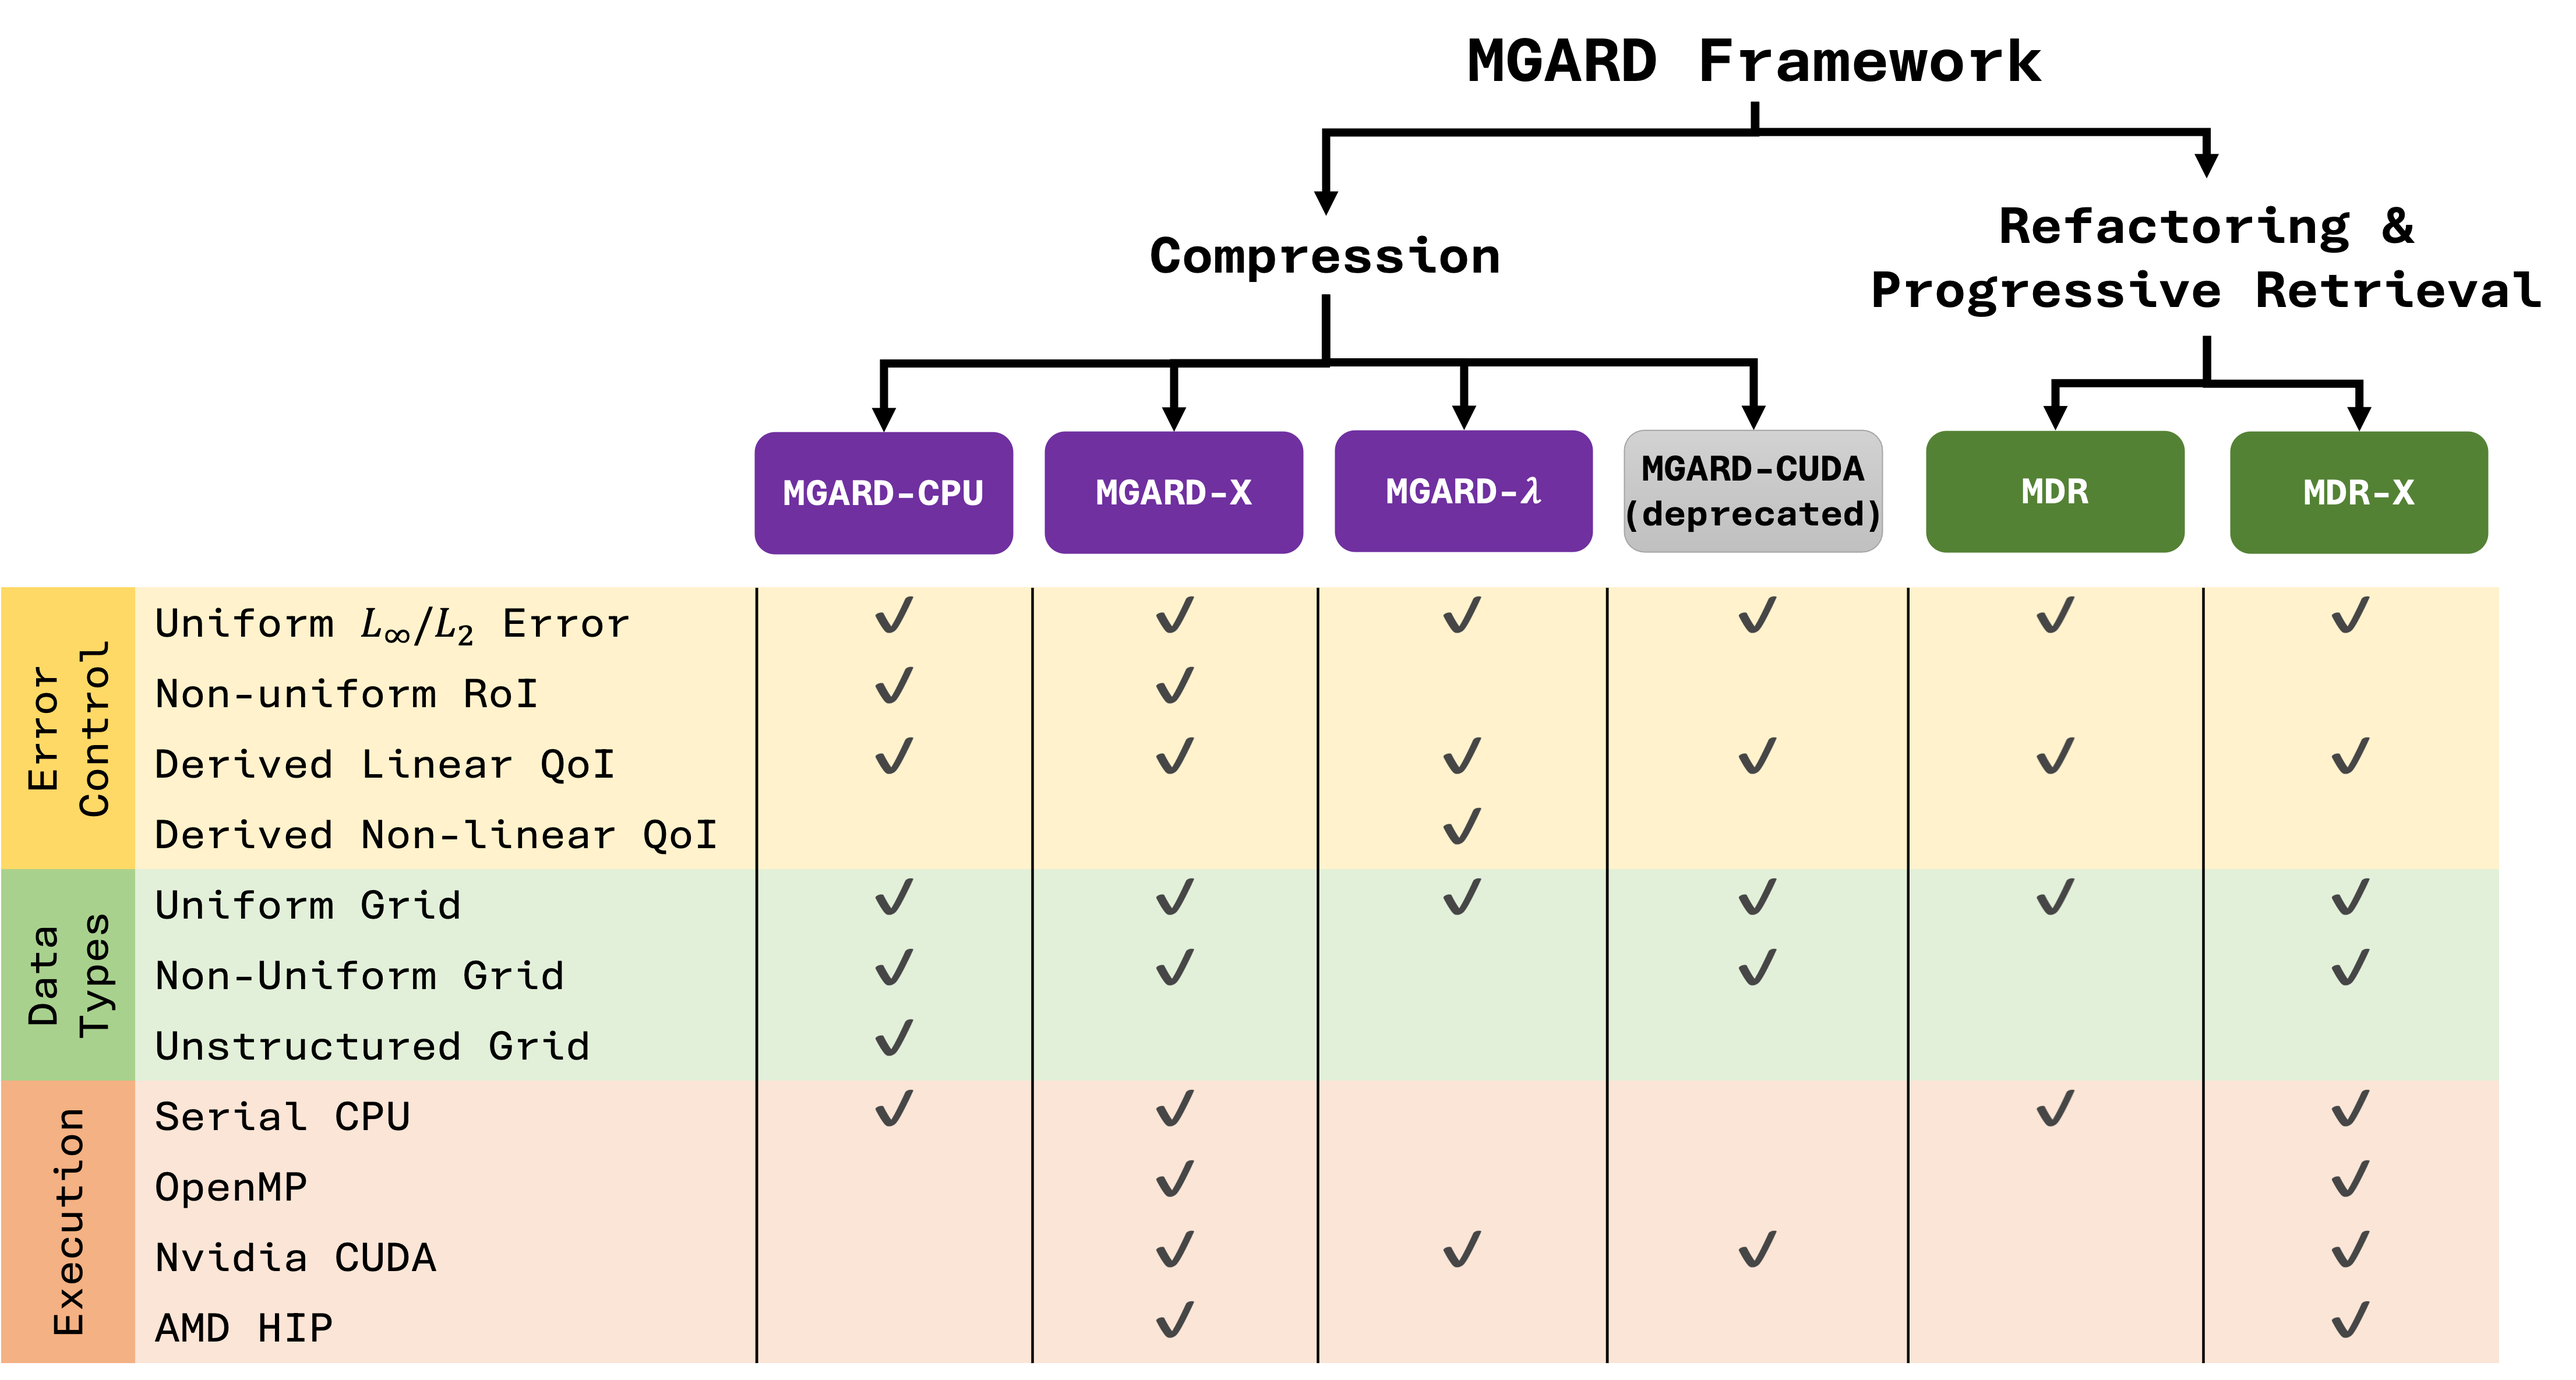
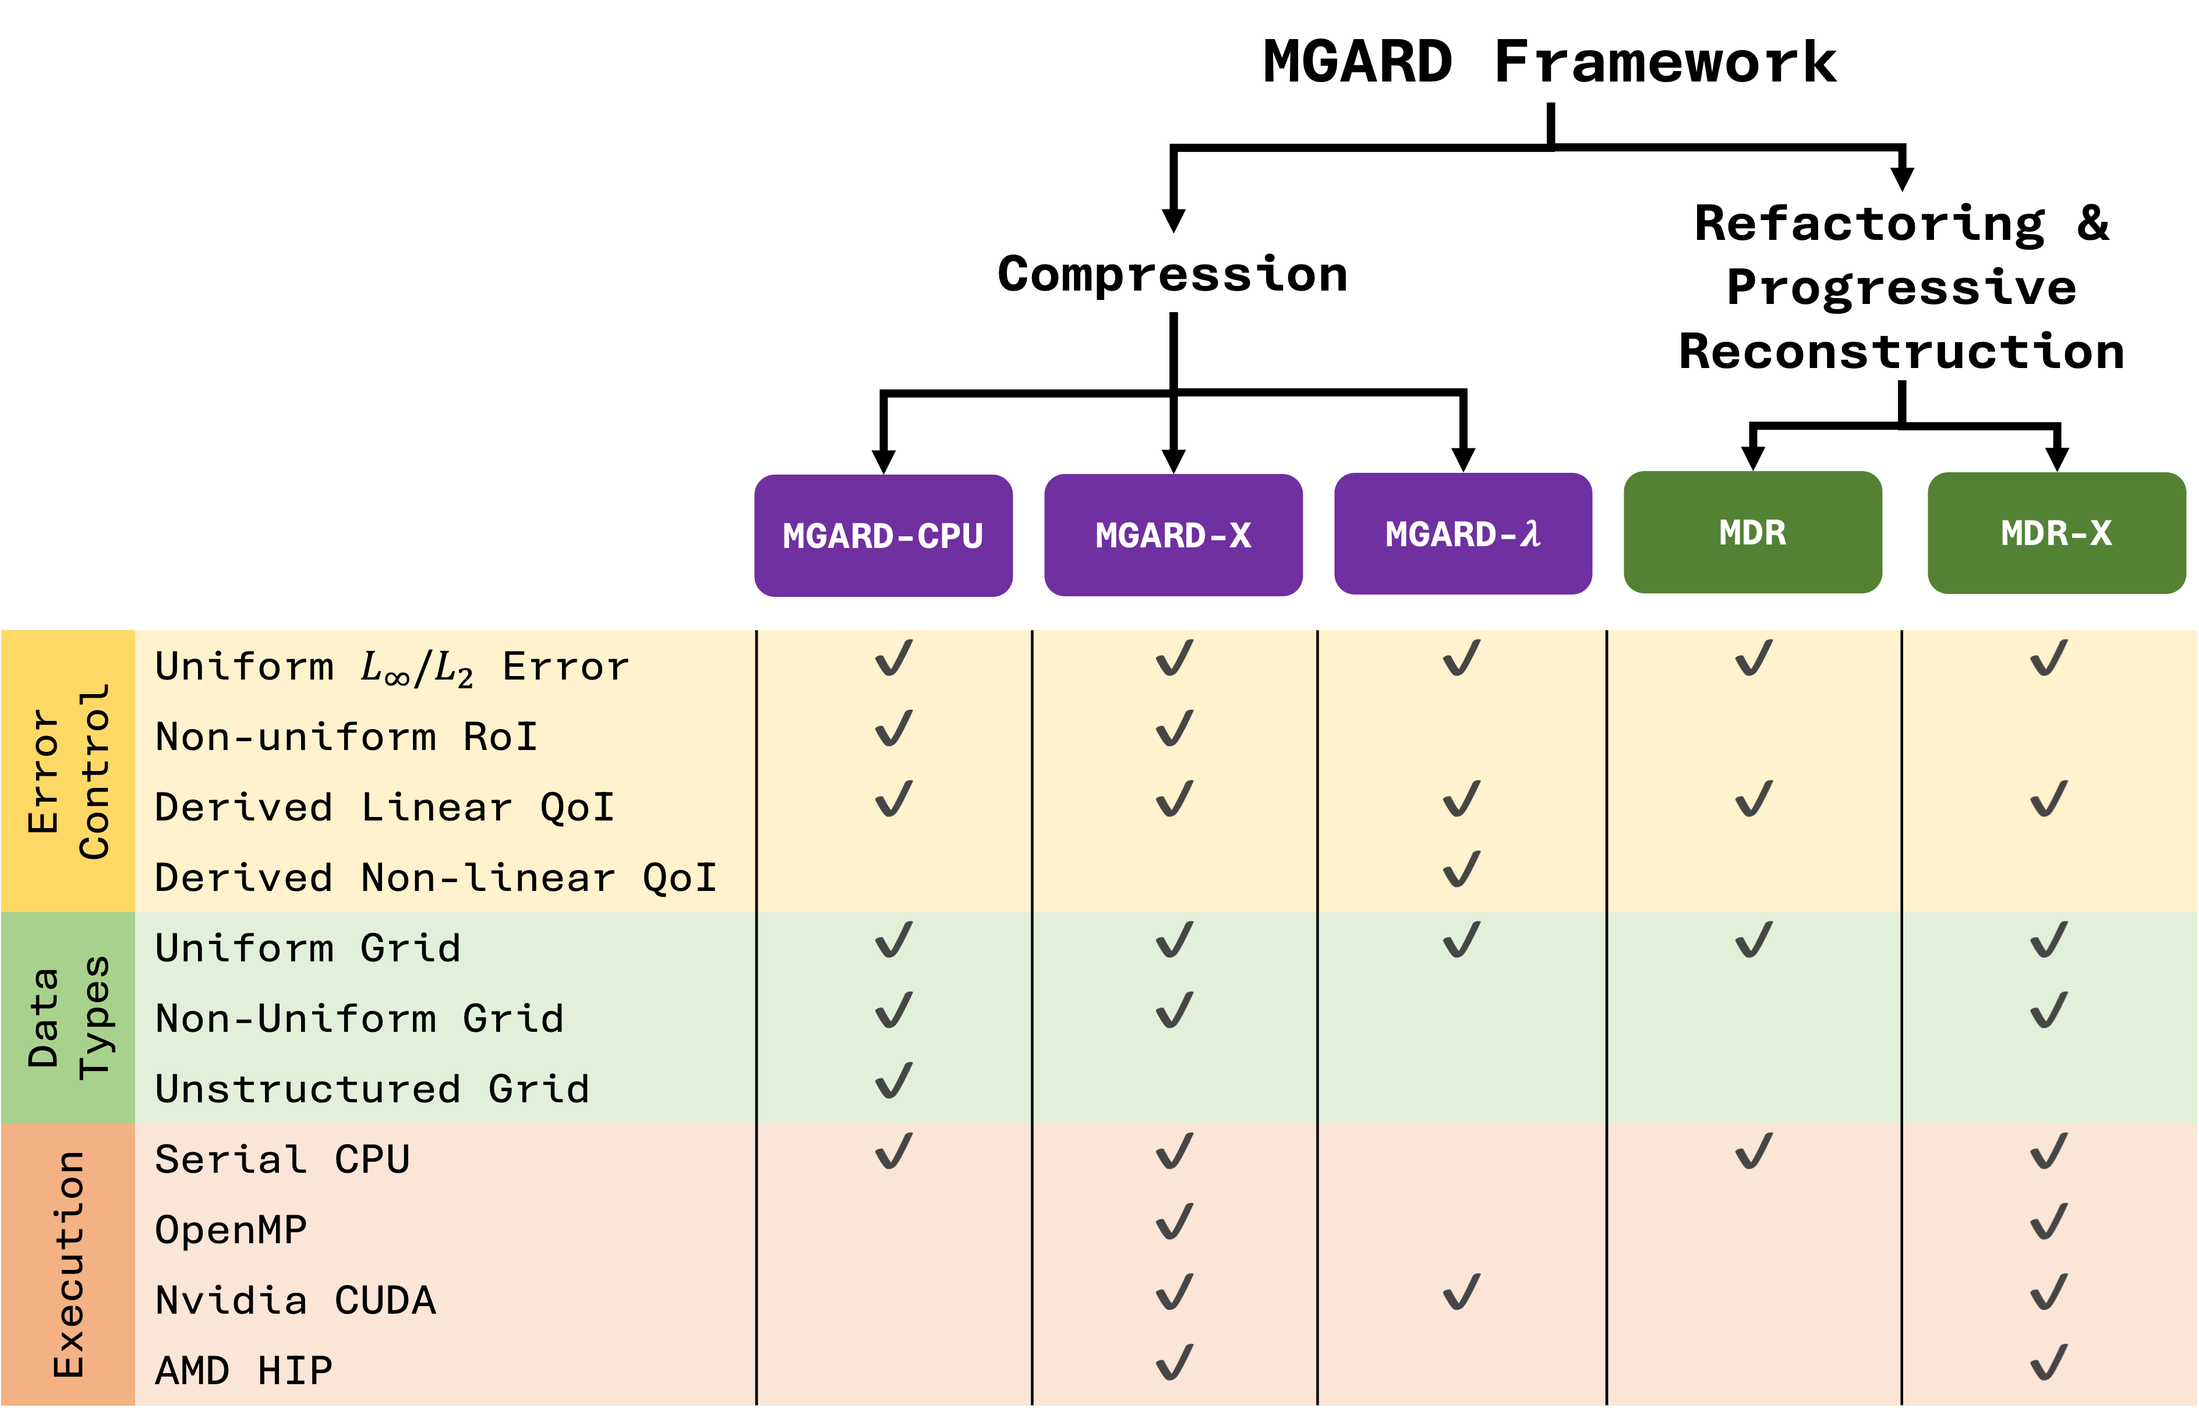
update mgard family tree

diff --git a/README.md b/README.md
@@ -17,7 +17,7 @@ We encourage you to [make a GitHub issue][issue form] if you run into any proble
 
 MGARD framework consists of the following modules. Please see the detailed instructions for each module to build and install MGARD.
 
-## ***MGARD-CPU***: Legacy compression implementation for CPUs
+## ***MGARD-CPU***: MGARD compression implementation for CPUs
 *MGARD-CPU* is designed for running compression on CPUs. See the detailed user guide [here][mgard-cpu]. In addition, *MGARD-CPU* can be configured to preserve region-of-interest ([RoI user guide][mgard-roi]) and linear quantity-of-interest ([QoI user guide][mgard-qoi]) during data compression.
 
 [mgard-cpu]: doc/MGARD-CPU.md
